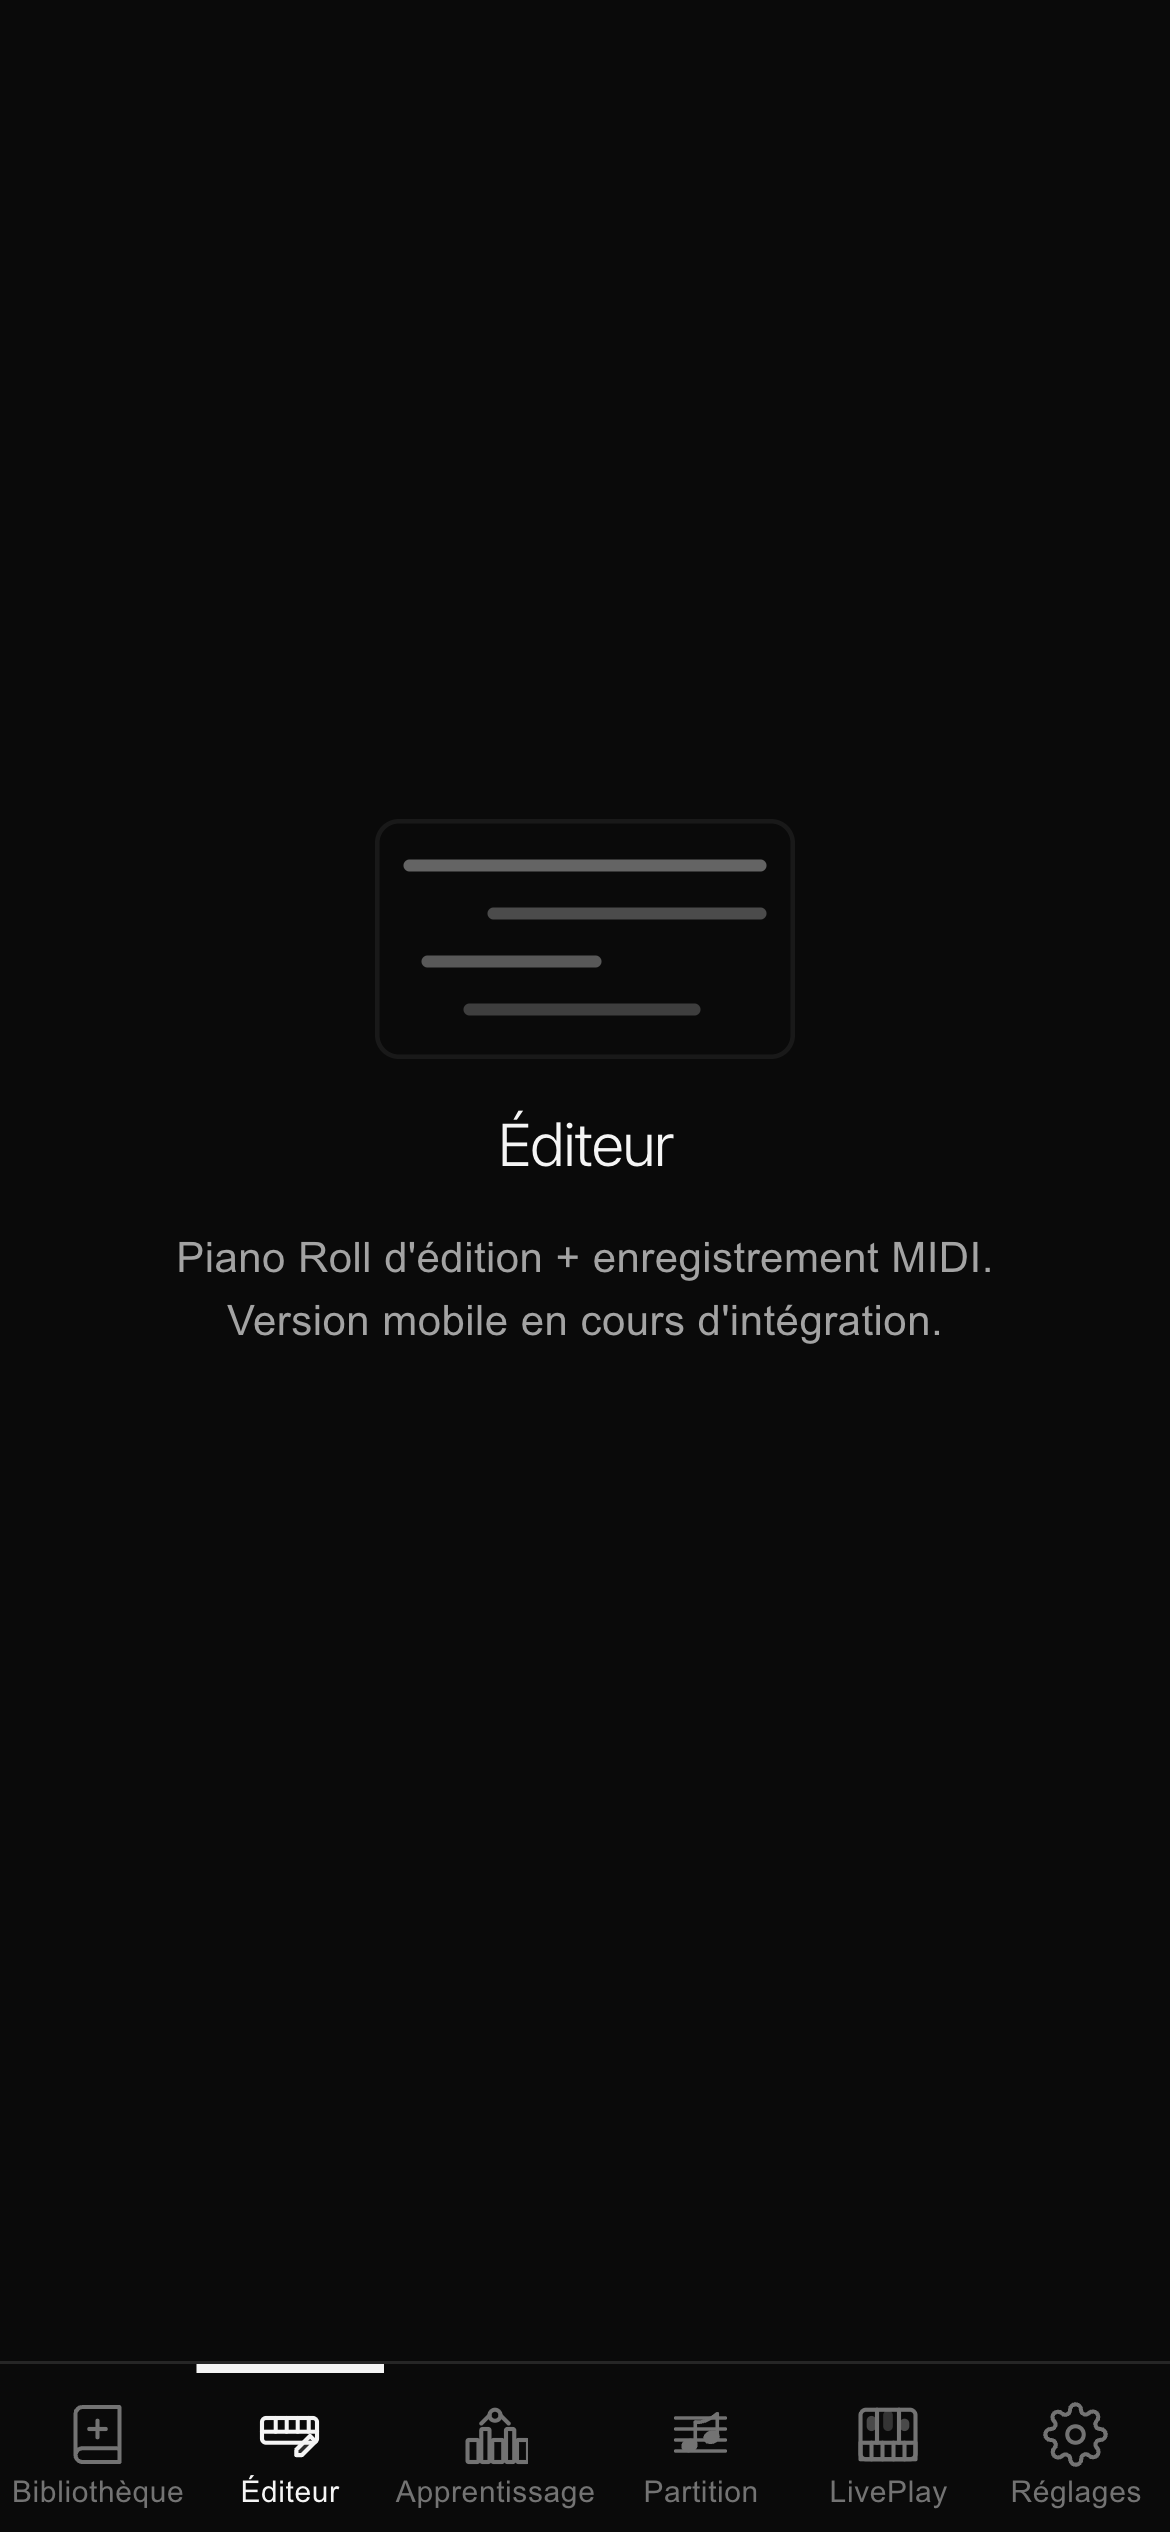
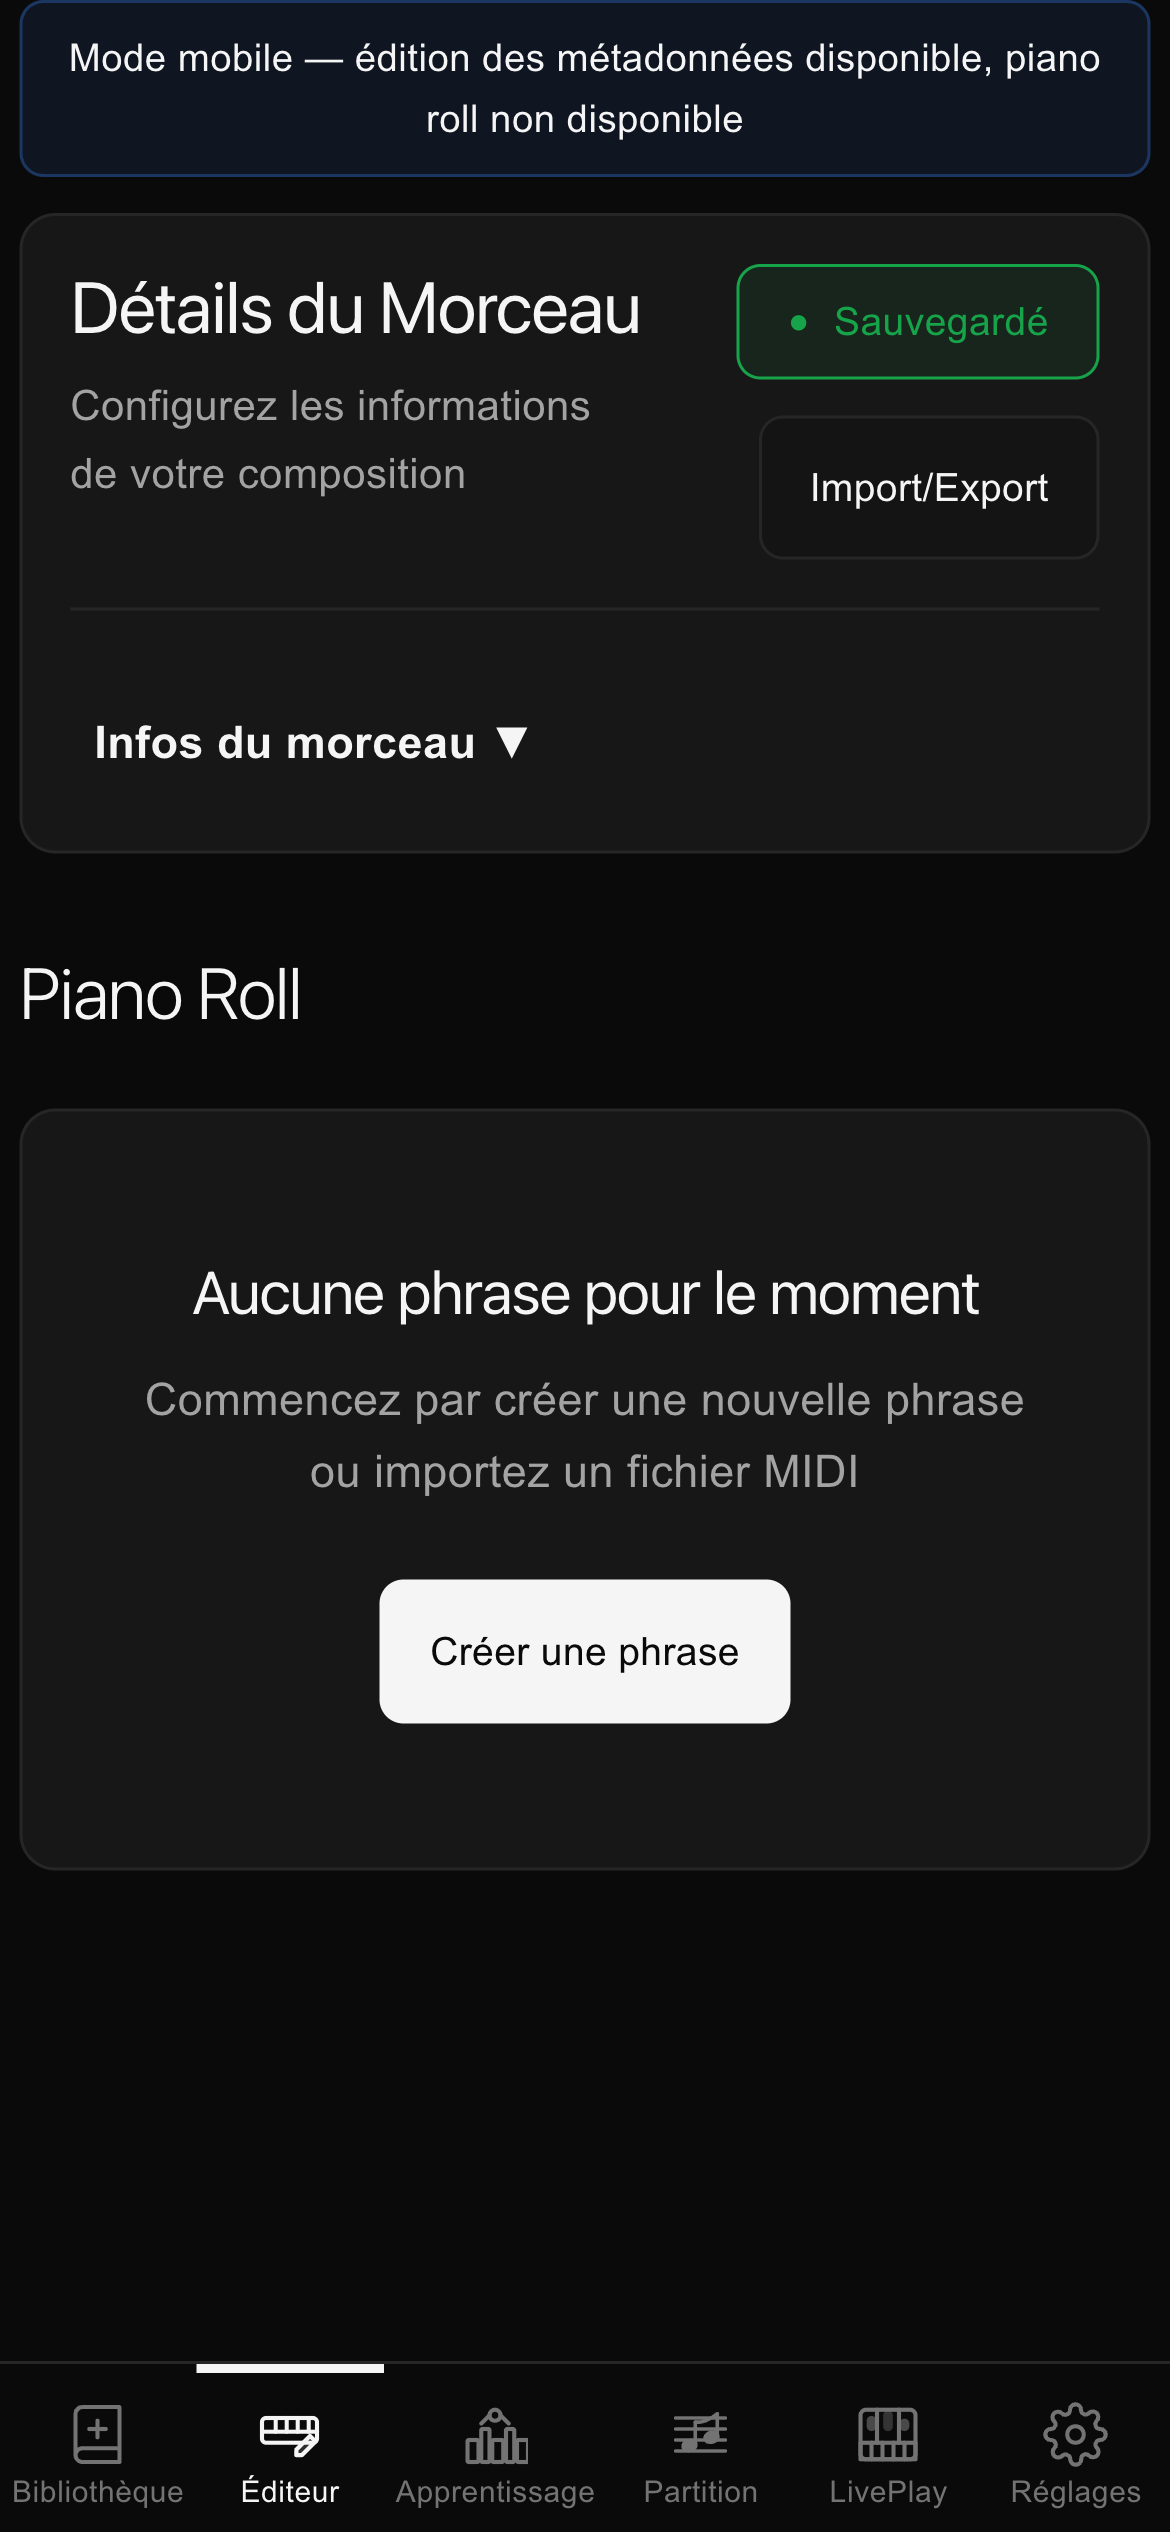
feat(phase-1.5): wire SongEditor on the Éditeur tab
Replaces the EditorPlaceholder stub. The Éditeur tab now mounts the
real SongEditor in both AppMobile and AppDesktop. SongEditor already
has an isMobile branch that surfaces a "Mode mobile" banner and lets
you create/import phrases; the inner PianoRoll has a fullscreen mode
that goes to the existing PianoRollEditor.

- AppMobile: destructure all song mutation callbacks from useSong
  (updateSongMetadata, addPhrase, splitPhrase, mergePhraseWithPrevious,
  renamePhrasesInOrder, addNoteToPhrase, removeNoteFromPhrase,
  updateNoteInPhrase, reorderPhrases) and forward them to SongEditor.
- AppDesktop: route mode === 'editor' (mobile BottomTabBar id) to the
  same SongEditor instance used by mode === 'edit'. Both ids now reach
  the editor — no asymmetry between top and bottom nav.
- Delete EditorPlaceholder.jsx — superseded.

Verified mobile: empty song shows the "Créer une phrase / Import MIDI"
empty state; with the Piano demo loaded, the inline piano roll renders
with phrase controls and a Plein écran button (which opens the
existing PianoRollEditor fullscreen path).

diff --git a/src/AppMobile.jsx b/src/AppMobile.jsx
@@ -3,7 +3,7 @@ import { Layout } from './components/Layout';
 import { LiveLearning } from './components/LiveLearning';
 import { SongLibrary } from './components/SongLibrary';
 import { LivePlayViewOptimized as LivePlayView } from './components/LivePlayViewOptimized';
-import { EditorPlaceholder } from './components/EditorPlaceholder';
+import { SongEditor } from './components/SongEditor';
 import { SheetMusicLearning } from './components/SheetMusicLearning';
 import { Settings } from './components/Settings';
 import { BottomTabBar } from './components/BottomTabBar';
@@ -14,9 +14,19 @@ import { useMidiAudio } from './hooks/useMidiAudio';
 function AppMobile() {
   const {
     song,
+    updateSongMetadata,
+    importSong,
     loadSong,
     saveSong,
+    addPhrase,
+    splitPhrase,
+    mergePhraseWithPrevious,
+    renamePhrasesInOrder,
+    addNoteToPhrase,
+    removeNoteFromPhrase,
+    updateNoteInPhrase,
     toggleHighlightedMeasure,
+    reorderPhrases,
   } = useSong();
 
   const [mode, setMode] = useState('library');
@@ -75,7 +85,22 @@ function AppMobile() {
           />
         )}
         {mode === 'editor' && (
-          <EditorPlaceholder song={song} isMobile={true} />
+          <SongEditor
+            song={song}
+            onUpdateMetadata={updateSongMetadata}
+            onImportSong={importSong}
+            onSaveSong={saveSong}
+            onAddPhrase={addPhrase}
+            onSplitPhrase={splitPhrase}
+            onMergePhraseWithPrevious={mergePhraseWithPrevious}
+            onRenamePhrasesInOrder={renamePhrasesInOrder}
+            addNoteToPhrase={addNoteToPhrase}
+            removeNoteFromPhrase={removeNoteFromPhrase}
+            onUpdateNote={updateNoteInPhrase}
+            onReorderPhrases={reorderPhrases}
+            isMobile={true}
+            readOnly={false}
+          />
         )}
         {mode === 'sheet' && (
           <SheetMusicLearning song={song} isMobile={true} />

diff --git a/src/AppDesktop.jsx b/src/AppDesktop.jsx
@@ -1,7 +1,6 @@
 import React, { useState, useEffect, useCallback } from 'react';
 import { Layout } from './components/Layout';
 import { SongEditor } from './components/SongEditor';
-import { EditorPlaceholder } from './components/EditorPlaceholder';
 import { LiveLearning } from './components/LiveLearning';
 import { SheetMusicLearning } from './components/SheetMusicLearning';
 import { SongLibrary } from './components/SongLibrary';
@@ -116,7 +115,22 @@ function App() {
           <LiveLearning song={song} onToggleHighlight={toggleHighlightedMeasure} />
         )}
         {mode === 'editor' && (
-          <EditorPlaceholder song={song} isMobile={isMobile} />
+          <SongEditor
+            song={song}
+            onUpdateMetadata={updateSongMetadata}
+            onImportSong={importSong}
+            onSaveSong={saveSong}
+            onAddPhrase={addPhrase}
+            onSplitPhrase={splitPhrase}
+            onMergePhraseWithPrevious={mergePhraseWithPrevious}
+            onRenamePhrasesInOrder={renamePhrasesInOrder}
+            addNoteToPhrase={addNoteToPhrase}
+            removeNoteFromPhrase={removeNoteFromPhrase}
+            onUpdateNote={updateNoteInPhrase}
+            onReorderPhrases={reorderPhrases}
+            isMobile={isMobile}
+            readOnly={false}
+          />
         )}
         {mode === 'sheet' && (
           <SheetMusicLearning song={song} isMobile={isMobile} />